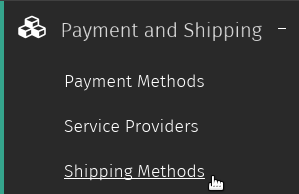
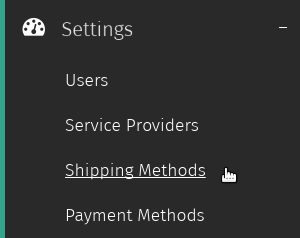
Add v0.4.1 changes

diff --git a/source/orders.rst b/source/orders.rst
@@ -9,8 +9,8 @@ front or by a merchant through the Shuup Admin.
 
 To create an order through the Shuup Admin:
 
-1. Navigate to the Orders admin page by clicking `Orders` from the Shuup
-   Admin menu.
+1. Navigate to the Orders admin page by clicking `Orders` under the
+   `Orders` category from the Shuup Admin menu.
 
    .. image:: orders/orders-menu.png
 
@@ -45,12 +45,25 @@ To create an order through the Shuup Admin:
    Text/Comment line
       A non-priced text line
 
-5. Select shipping and payment methods for the order from the Shipping
+5. Optionally, the `Quick add product line` form can be used to quickly
+   add product lines to the order. For example, this can be used when
+   adding products using a barcode scanning device.
+
+   To quick add products:
+
+   a. Enter a product name, sku, or barcode number and select desired
+      product from the dropdown results.
+   b. Press the plus button to add the product line to order, or press
+      the trash button to clear the input and select a new product.
+
+      .. image:: orders/quick-add.png
+
+6. Select shipping and payment methods for the order from the Shipping
    and Payment Methods dropdowns.
 
    .. image:: orders/shipping-and-payment-methods.png
 
-6. Click the `Proceed` button to create the order.
+7. Click the `Proceed` button to create the order.
 
    .. image:: orders/proceed-button.png
 
@@ -64,8 +77,8 @@ To create an order through the Shuup Admin:
 Editing an Order
 ~~~~~~~~~~~~~~~~
 
-1. Navigate to the Orders admin page by clicking `Orders` from the
-   Shuup Admin menu.
+1. Navigate to the Orders admin page by clicking `Orders` under the
+   `Orders` category from the Shuup Admin menu.
 
    .. image:: orders/orders-menu.png
 
@@ -95,8 +108,8 @@ Creating an Order Shipment
 
 To create an order shipment:
 
-1. Navigate to the Orders admin page by clicking `Orders` from the
-   Shuup Admin menu.
+1. Navigate to the Orders admin page by clicking `Orders` under the
+   `Orders` category from the Shuup Admin menu.
 
    .. image:: orders/orders-menu.png
 
@@ -126,8 +139,8 @@ Printing a Delivery Slip
 
 To print a delivery slip for an order shipment:
 
-1. Navigate to the Orders admin page by clicking `Orders` from the
-   Shuup Admin menu.
+1. Navigate to the Orders admin page by clicking `Orders` under the
+   `Orders` category from the Shuup Admin menu.
 
    .. image:: orders/orders-menu.png
 
@@ -160,8 +173,8 @@ Viewing Order Payments
 
 To view all payments for an order:
 
-1. Navigate to the Orders admin page by clicking `Orders` from the
-   Shuup Admin menu.
+1. Navigate to the Orders admin page by clicking `Orders` under the
+   `Orders` category from the Shuup Admin menu.
 
    .. image:: orders/orders-menu.png
 
@@ -182,8 +195,8 @@ Creating an Order Payment
 
 To create an order payment:
 
-1. Navigate to the Orders admin page by clicking `Orders` from the
-   Shuup Admin menu.
+1. Navigate to the Orders admin page by clicking `Orders` under the
+   `Orders` category from the Shuup Admin menu.
 
    .. image:: orders/orders-menu.png
 
@@ -229,8 +242,8 @@ Creating a Partial Refund
 To create a partial refund for a particular amount or to refund
 particular order line amounts:
 
-1. Navigate to the Orders admin page by clicking `Orders` from the
-   Shuup Admin menu.
+1. Navigate to the Orders admin page by clicking `Orders` under the
+   `Orders` category from the Shuup Admin menu.
 
    .. image:: orders/orders-menu.png
 
@@ -267,8 +280,8 @@ Creating a Full Refund
 
 To create a full refund for an order:
 
-1. Navigate to the Orders admin page by clicking `Orders` from the
-   Shuup Admin menu.
+1. Navigate to the Orders admin page by clicking `Orders` under the
+   `Orders` category from the Shuup Admin menu.
 
    .. image:: orders/orders-menu.png
 
@@ -303,8 +316,8 @@ Canceling an Order
 
 To cancel an order:
 
-1. Navigate to the Orders admin page by clicking `Orders` from the
-   Shuup Admin menu.
+1. Navigate to the Orders admin page by clicking `Orders` under the
+   `Orders` category from the Shuup Admin menu.
 
    .. image:: orders/orders-menu.png
 
@@ -324,8 +337,8 @@ Once an order has been shipping, it can be marked as completed.
 
 To set an order as complete:
 
-1. Navigate to the Orders admin page by clicking `Orders` from the
-   Shuup Admin menu.
+1. Navigate to the Orders admin page by clicking `Orders` under the
+   `Orders` category from the Shuup Admin menu.
 
    .. image:: orders/orders-menu.png
 
@@ -347,8 +360,8 @@ The order will now be marked as `completed`.
 Printing an Order Confirmation
 ~~~~~~~~~~~~~~~~~~~~~~~~~~~~~~
 
-1. Navigate to the Orders admin page by clicking `Orders` from the
-   Shuup Admin menu.
+1. Navigate to the Orders admin page by clicking `Orders` under the 
+   `Orders` category from the Shuup Admin menu.
 
    .. image:: orders/orders-menu.png
 

diff --git a/source/customers-and-users.rst b/source/customers-and-users.rst
@@ -8,7 +8,7 @@ Creating a User
 ^^^^^^^^^^^^^^^
 
 1. Navigate to the Users admin page by clicking `Users` under the
-   `Contacts` category from the Shuup Admin menu.
+   `Settings` category from the Shuup Admin menu.
 
    .. image:: customers-and-users/users-menu.png
 
@@ -63,7 +63,7 @@ Changing User Passwords
 ***********************
 
 1. Navigate to the Users admin page by clicking `Users` under the
-   `Contacts` category from the Shuup Admin menu
+   `Settings` category from the Shuup Admin menu
 
    .. image:: customers-and-users/users-menu.png
 
@@ -85,7 +85,7 @@ Sending Password-Reset Emails
 *****************************
 
 1. Navigate to the Users admin page by clicking `Users` under the
-   `Contacts` category from the Shuup Admin menu.
+   `Settings` category from the Shuup Admin menu.
 
    .. image:: customers-and-users/users-menu.png
 
@@ -111,7 +111,7 @@ Editing User Permissions
    Use caution when granting users administrative permissions.
 
 1. Navigate to the Users admin page by clicking `Users` under the
-   `Contacts` category from the Shuup Admin menu.
+   `Settings` category from the Shuup Admin menu.
 
    .. image:: customers-and-users/users-menu.png
 
@@ -146,7 +146,7 @@ not displayed when first opening the Users admin page.
 To deactivate a user:
 
 1. Navigate to the Users admin page by clicking `Users` under the
-   `Contacts` category from the Shuup Admin menu.
+   `Settings` category from the Shuup Admin menu.
 
    .. image:: customers-and-users/users-menu.png
 
@@ -162,6 +162,35 @@ To deactivate a user:
    will be replaced with an `Activate User` button.
 
 .. note:: The same steps can be followed to activate a deactivated user.
+
+Logging in as a User
+^^^^^^^^^^^^^^^^^^^^
+
+When troubleshooting a problem for a customer, it may be useful to log
+in under the user's account.
+
+To log in as a user:
+
+1. When logged in as a superuser, navigate to the Users admin page by
+   clicking `Users` under the `Settings` category from the Shuup Admin
+   menu.
+
+   .. image:: customers-and-users/users-menu.png
+
+2. Select the user you want to log in as.
+
+   .. image:: customers-and-users/select-user.png
+
+3. Click the `Login as User` button on the user admin toolbar.
+
+   .. image:: customers-and-users/login-as-user-button.png
+
+4. You will now be logged in as the user.
+
+.. note::
+
+   If a superuser places an order as another user, the superuser will be
+   listed as the creator on the orders details page.
 
 Permission Groups
 ~~~~~~~~~~~~~~~~~
@@ -306,7 +335,7 @@ Creating a Contact From a User Account
 ^^^^^^^^^^^^^^^^^^^^^^^^^^^^^^^^^^^^^^
 
 1. Navigate to the Users admin page by clicking `Users` under the
-   `Contacts` category from the Shuup Admin menu.
+   `Settings` category from the Shuup Admin menu.
 
    .. image:: customers-and-users/users-menu.png
 

diff --git a/source/payment-and-shipping.rst b/source/payment-and-shipping.rst
@@ -13,8 +13,7 @@ Creating a Payment/Service Provider
 ^^^^^^^^^^^^^^^^^^^^^^^^^^^^^^^^^^^
 
 1. Navigate to the Service Providers admin page by clicking `Service
-   Providers` under the `Payment and Shipping` category from the Shuup
-   Admin menu.
+   Providers` under the `Settings` category from the Shuup Admin menu.
 
    .. image:: payment-and-shipping/service-providers-menu.png
 
@@ -53,7 +52,7 @@ Creating a Payment Method
 ^^^^^^^^^^^^^^^^^^^^^^^^^
 
 1. Navigate to the Payment Method admin by clicking `Payment Methods`
-   under the `Payment and Shipping` category from the Shuup Admin menu.
+   under the `Settings` category from the Shuup Admin menu.
 
    .. image:: payment-and-shipping/payment-methods-menu.png
 
@@ -80,7 +79,7 @@ Creating a Shipping Method
 ^^^^^^^^^^^^^^^^^^^^^^^^^^
 
 1. Navigate to the Shipping Method admin by clicking `Shipping Methods`
-   under the `Payment and Shipping` category from the Shuup Admin menu.
+   under the `Settings` category from the Shuup Admin menu.
 
    .. image:: payment-and-shipping/shipping-methods-menu.png
 
@@ -136,8 +135,8 @@ Adding a Behavior Component to a Method
 ^^^^^^^^^^^^^^^^^^^^^^^^^^^^^^^^^^^^^^^
 
 1. Navigate to the Shipping or Payment Methods admin by clicking
-   `Shipping Methods` or `Payment Methods` under the `Payment and
-   Shipping` category from the Shuup Admin menu.
+   `Shipping Methods` or `Payment Methods` under the `Settings`
+   category from the Shuup Admin menu.
 
    .. image:: payment-and-shipping/payment-methods-menu.png
 

diff --git a/source/tax-settings.rst b/source/tax-settings.rst
@@ -10,7 +10,7 @@ Creating a New Tax
 To create a new tax:
 
 1. Navigate to the Taxes admin page by clicking `Taxes` under the
-   `Taxes` category from the Shuup Admin menu.
+   `Settings` category from the Shuup Admin menu.
 
    .. image:: tax-settings/taxes-menu.png
 
@@ -32,7 +32,7 @@ Creating a New Tax Rule
 ^^^^^^^^^^^^^^^^^^^^^^^
 
 1. Navigate to the Taxes admin page by clicking `Tax Rules` under the
-   `Taxes` category from the Shuup Admin menu.
+   `Settings` category from the Shuup Admin menu.
 
    .. image:: tax-settings/tax-rules-menu.png
 
@@ -53,7 +53,7 @@ Creating a New Customer Tax Group
 ^^^^^^^^^^^^^^^^^^^^^^^^^^^^^^^^^
 
 1. Navigate to the Taxes admin page by clicking `Customer Tax Groups`
-   under the `Taxes` category from the Shuup Admin menu.
+   under the `Settings` category from the Shuup Admin menu.
 
    .. image:: tax-settings/customer-tax-groups-menu.png
 
@@ -75,7 +75,7 @@ Creating a New Tax Class
 ^^^^^^^^^^^^^^^^^^^^^^^^
 
 1. Navigate to the Tax Classes admin page by clicking `Tax Classes`
-   under the `Taxes` category from the Shuup Admin menu.
+   under the `Settings` category from the Shuup Admin menu.
 
    .. image:: tax-settings/tax-classes-menu.png
 
@@ -103,7 +103,7 @@ Shop Settings
    the tax display settings.
 
 1. Navigate to the Shops admin page by clicking `Shops` under the
-   `System` category from the Shuup Admin menu.
+   `Storefront` category from the Shuup Admin menu.
 
    .. image:: tax-settings/shops-menu.png
 

diff --git a/source/using-themes.rst b/source/using-themes.rst
@@ -17,8 +17,8 @@ until a theme for the shop has been activated.
 
 .. image:: using-themes/no-theme-selected.png
 
-To active a theme, go to the Shuup Admin and select the `Themes`
-admin from main menu.
+To active a theme, go to the Shuup Admin and click `Themes` under the
+`Storefront` category from the Shuup Admin menu.
 
 .. image:: using-themes/themes-menu.png
 

diff --git a/source/products.rst b/source/products.rst
@@ -112,6 +112,11 @@ depending on the product's supplier settings.
 
 .. todo:: Add complete reference for product fields
 
+Orders Management Tab
+^^^^^^^^^^^^^^^^^^^^^
+
+Show recent orders containing the product.
+
 Product Types
 -------------
 
